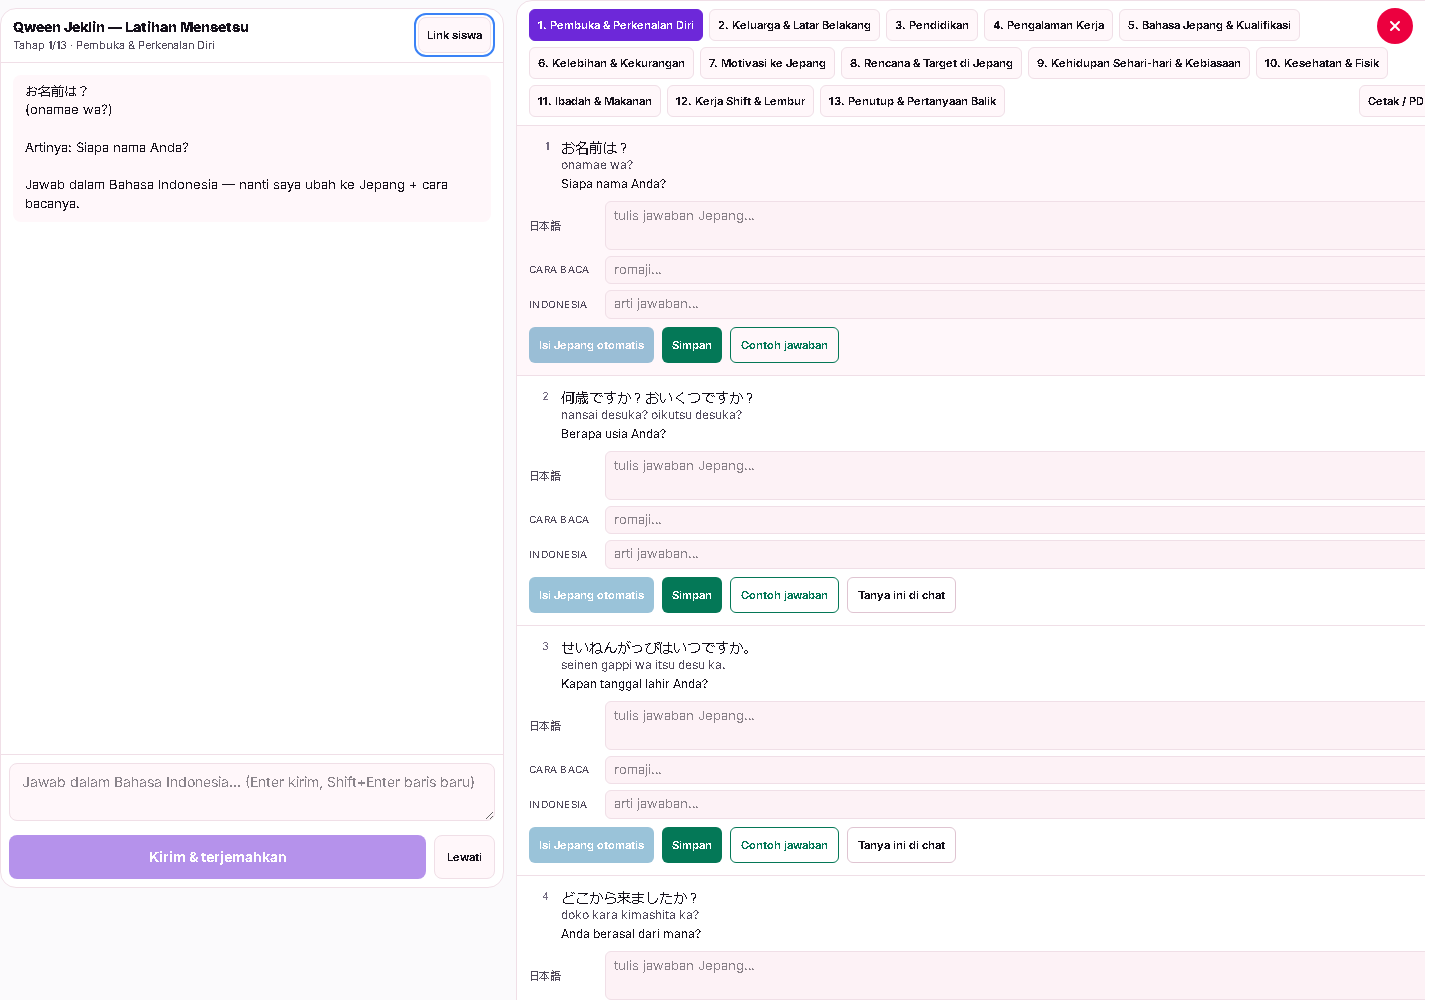
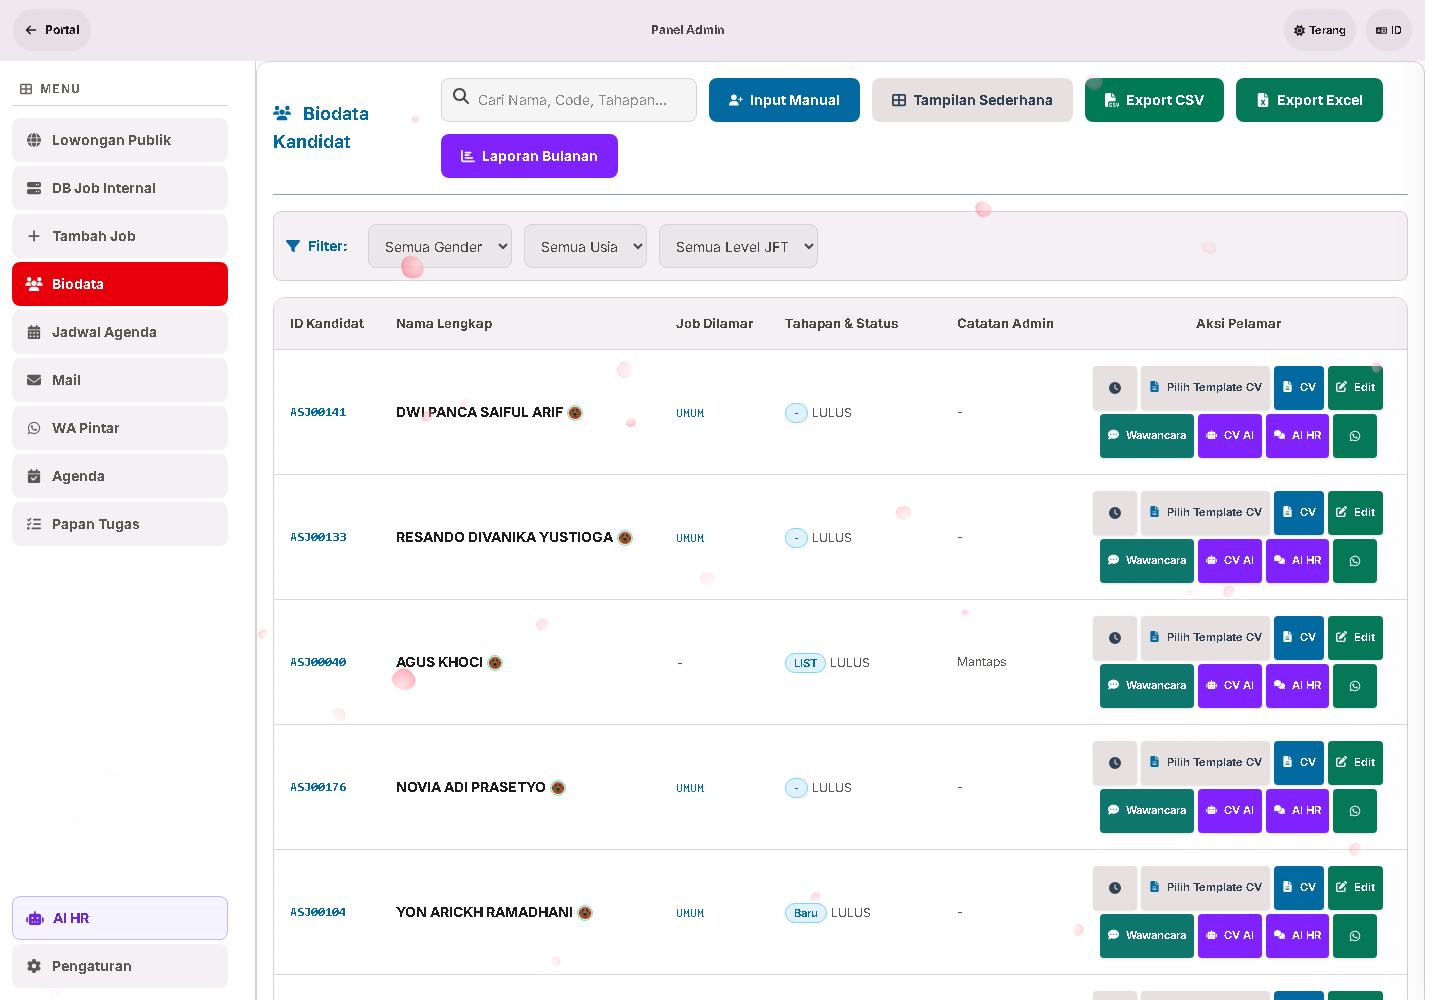
fix(admin): tombol Wawancara juga di TABEL desktop, bukan hanya kartu mobile
Laporan pemilik: "mana kok gak ada" — benar, tombolnya tidak muncul di tabel.

SEBAB. TabPelamar merender DUA tata letak: tabel desktop dan kartu
`div.md:hidden` untuk mobile. Penambalan pertama saya menambal kemunculan
PERTAMA dari string tombol CV AI, dan itu ada di blok MOBILE. Terukur di
DOM: 20 elemen `.bg-teal-600` ada, tapi semuanya di dalam
`div.md:hidden.space-y-2` dengan ukuran 0x0 pada viewport 1440 — jadi
"ada" tanpa pernah terlihat. Itu juga sebabnya probe pertama saya sempat
melaporkan "20 tombol": yang dihitung memang tombol mobile yang tak tampak.

PERBAIKAN. Tombol ditambahkan ke blok tabel desktop (penanda: kelas `rounded` +
`whitespace-nowrap` yang hanya dipakai tombol desktop; yang mobile memakai
`rounded-lg` + `flex-1`), dan versi mobile-nya disamakan bentuknya dengan
tombol CV AI mobile.

Terukur (1440x1000, light): urutan tombol baris = Riwayat · Pilih Template CV ·
CV · Edit · Wawancara · CV AI · AI HR · Kirim WA; tombol Wawancara 94x44 dan
`offsetParent !== null`. Klik ⇒ panel terbuka tanpa gerbang password,
getBankWawancara 200, 9 soal + 13 tab, 0 pageerror.

diff --git a/src/components/admin/TabPelamar.tsx b/src/components/admin/TabPelamar.tsx
@@ -330,7 +330,7 @@ const [showCvTemplateSelector, setShowCvTemplateSelector] = useState(false);
                   <button type="button" onClick={() => { setShowCvTemplateSelector(true); }} class="min-h-11 flex-1 basis-[calc(50%-0.25rem)] px-2 py-1.5 bg-slate-700 hover:bg-slate-600 text-white rounded-lg text-[11px] font-bold shadow transition"><Icon name="file-alt" class="mr-1 text-sky-400" /> {t('button.pilih_template_cv')}</button>
                   <button type="button" onClick={() => { setRirekWa(k.wa); setShowRirek(true); }} class="min-h-11 flex-1 basis-[calc(50%-0.25rem)] px-2 py-1.5 bg-sky-600 hover:bg-sky-500 text-white rounded-lg text-[11px] font-bold shadow transition"><Icon name="file-alt" class="mr-1" /> CV</button>
                   <button type="button" onClick={() => { window.dispatchEvent(new CustomEvent("openCandidateEdit", { detail: k })); }} class="min-h-11 flex-1 basis-[calc(50%-0.25rem)] px-2 py-1.5 bg-emerald-600 hover:bg-emerald-500 text-white rounded-lg text-[11px] font-bold shadow transition cursor-pointer"><Icon name="edit" class="mr-1" /> {t('button.edit')}</button>
-                  <button type="button" onClick={() => { setMensetsuWa(k.wa); }} title={t('admin.btn_wawancara')} class="min-h-11 px-2 py-1.5 bg-teal-600 hover:bg-teal-500 text-white rounded text-[11px] font-bold shadow transition cursor-pointer whitespace-nowrap"><Icon name="comment-dots" class="mr-1" /> {t('admin.btn_wawancara')}</button>
+                  <button type="button" onClick={() => { setMensetsuWa(k.wa); }} title={t('admin.btn_wawancara')} class="min-h-11 flex-1 basis-[calc(50%-0.25rem)] px-2 py-1.5 bg-teal-600 hover:bg-teal-500 text-white rounded-lg text-[11px] font-bold shadow transition cursor-pointer"><Icon name="comment-dots" class="mr-1" /> {t('admin.btn_wawancara')}</button>
                         <button type="button" onClick={() => { setAiCvWa(k.wa); }} title={t('admin.btn_cv_ai')} class="min-h-11 flex-1 basis-[calc(50%-0.25rem)] px-2 py-1.5 bg-violet-600 hover:bg-violet-500 text-white rounded-lg text-[11px] font-bold shadow transition cursor-pointer"><Icon name="robot" class="mr-1" /> {t('admin.btn_cv_ai')}</button>
                   <button type="button" onClick={() => { window.dispatchEvent(new CustomEvent("openAdminAiCopilot", { detail: { id: k.id, wa: k.wa, nama: k.nama } })); }} title={t('ui.ai_copilot')} class="min-h-11 flex-1 basis-[calc(50%-0.25rem)] px-2 py-1.5 bg-violet-600 hover:bg-violet-500 text-white rounded-lg text-[11px] font-bold shadow transition cursor-pointer"><Icon name="comments" class="mr-1" /> {t('admin.btn_ai_hr')}</button>
                   <button type="button" title={t('ui.send_wa_call')} aria-label={t('ui.send_wa_call')} onClick={() => setWaTarget({ nama: k.nama || k.wa || '', job: k.idLoker || '', phone: normalizeWaInput(k.wa || '') })} class="min-h-11 min-w-11 flex items-center justify-center bg-emerald-600 hover:bg-emerald-500 text-white rounded-lg shadow transition cursor-pointer"><Icon name="whatsapp" /></button>
@@ -390,6 +390,7 @@ const [showCvTemplateSelector, setShowCvTemplateSelector] = useState(false);
                         <button type="button" onClick={()=>{setShowCvTemplateSelector(true);}} class="min-h-11 px-2 py-1.5 bg-slate-700 hover:bg-slate-600 text-white rounded text-[11px] font-bold shadow transition whitespace-nowrap"><Icon name="file-alt" class="mr-1 text-sky-400" /> {t('button.pilih_template_cv')}</button>
                         <button type="button" onClick={()=>{setRirekWa(k.wa);setShowRirek(true);}} class="min-h-11 px-2 py-1.5 bg-sky-600 hover:bg-sky-500 text-white rounded text-[11px] font-bold shadow transition whitespace-nowrap"><Icon name="file-alt" class="mr-1" /> CV</button>
                         <button type="button" onClick={() => { window.dispatchEvent(new CustomEvent("openCandidateEdit", { detail: k })); }} class="min-h-11 px-2 py-1.5 bg-emerald-600 hover:bg-emerald-500 text-white rounded text-[11px] font-bold shadow transition cursor-pointer whitespace-nowrap"><Icon name="edit" class="mr-1" /> {t('button.edit')}</button>
+                        <button type="button" onClick={() => { setMensetsuWa(k.wa); }} title={t('admin.btn_wawancara')} class="min-h-11 px-2 py-1.5 bg-teal-600 hover:bg-teal-500 text-white rounded text-[11px] font-bold shadow transition cursor-pointer whitespace-nowrap"><Icon name="comment-dots" class="mr-1" /> {t('admin.btn_wawancara')}</button>
                         <button type="button" onClick={() => { setAiCvWa(k.wa); }} title={t('admin.btn_cv_ai')} class="min-h-11 px-2 py-1.5 bg-violet-600 hover:bg-violet-500 text-white rounded text-[11px] font-bold shadow transition cursor-pointer whitespace-nowrap"><Icon name="robot" class="mr-1" /> {t('admin.btn_cv_ai')}</button>
                         <button type="button" onClick={() => { window.dispatchEvent(new CustomEvent("openAdminAiCopilot", { detail: { id: k.id, wa: k.wa, nama: k.nama } })); }} title={t('ui.ai_copilot')} class="min-h-11 px-2 py-1.5 bg-violet-600 hover:bg-violet-500 text-white rounded text-[11px] font-bold shadow transition cursor-pointer whitespace-nowrap"><Icon name="comments" class="mr-1" /> {t('admin.btn_ai_hr')}</button>
                         <button type="button" title={t('ui.send_wa_call')} aria-label={t('ui.send_wa_call')} onClick={() => setWaTarget({ nama: k.nama || k.wa || '', job: k.idLoker || '', phone: normalizeWaInput(k.wa || '') })} class="w-11 h-11 flex items-center justify-center bg-emerald-600 hover:bg-emerald-500 text-white rounded text-xs shadow transition cursor-pointer"><Icon name="whatsapp" /></button>
